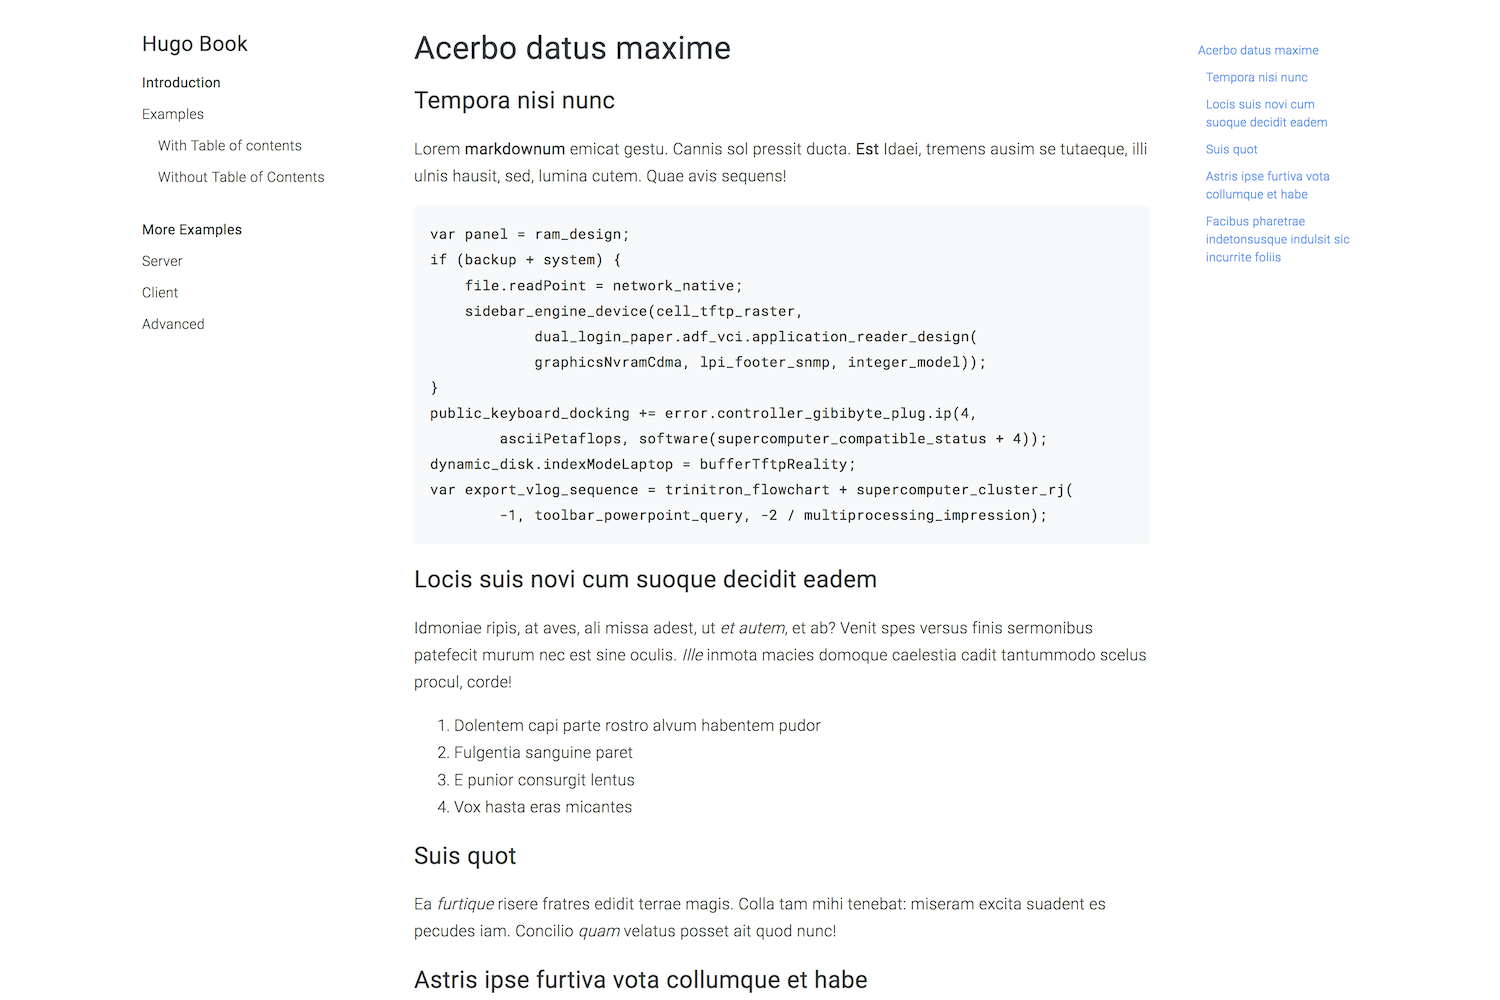
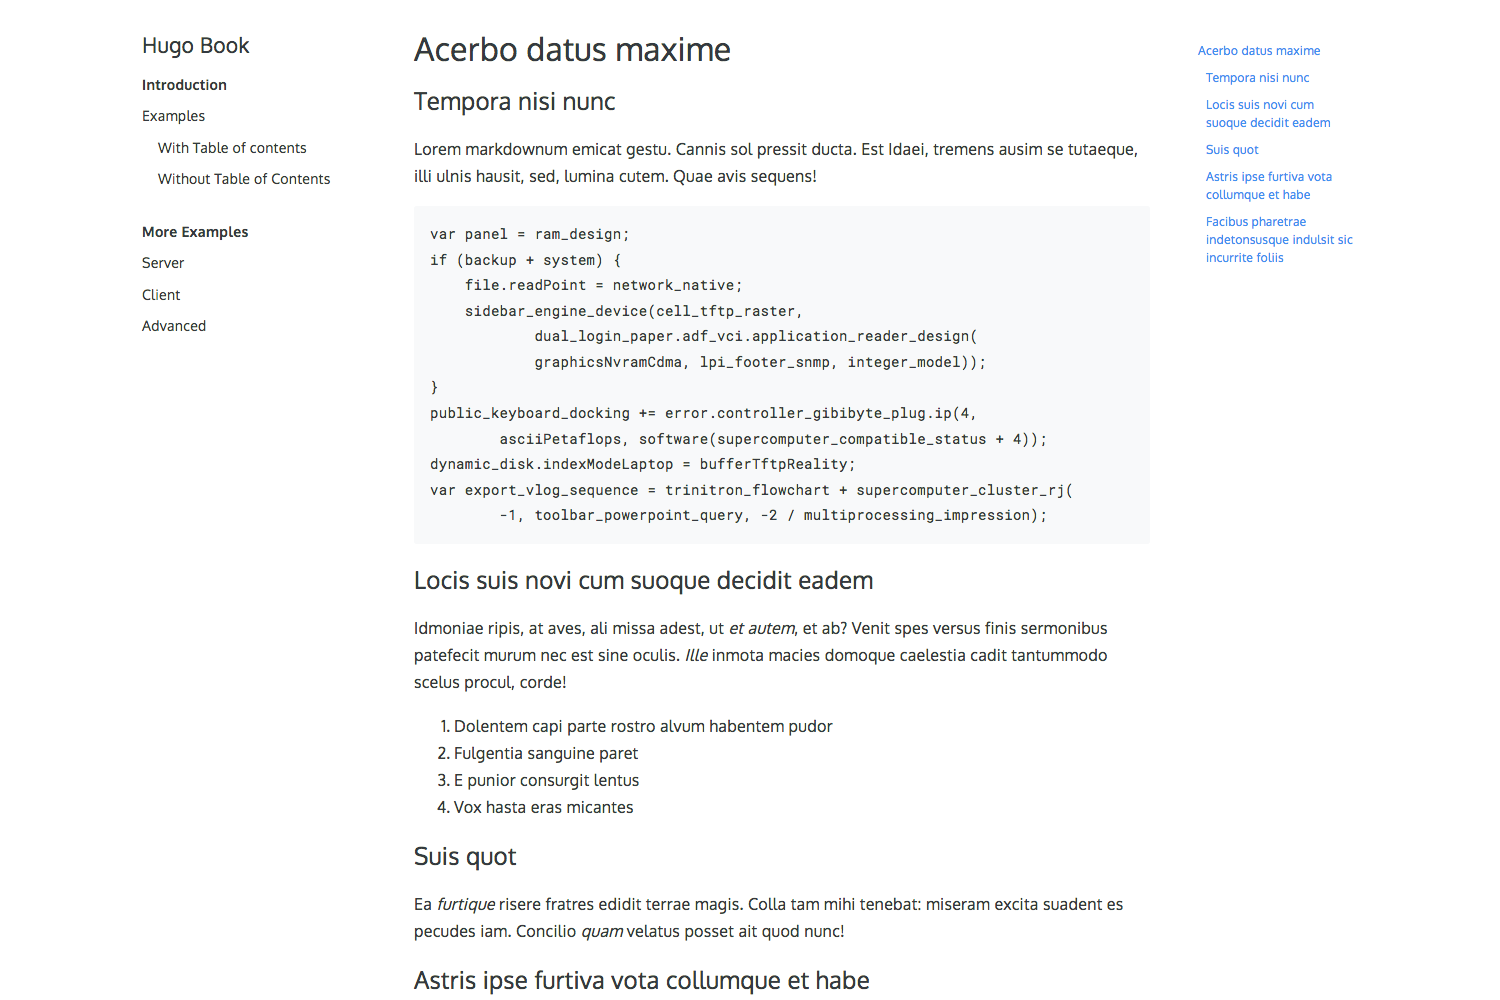
Use Oxygen font

diff --git a/static/normalize.min.css b/static/normalize.min.css
@@ -1,0 +1,2 @@
+/*! normalize.css v8.0.0 | MIT License | github.com/necolas/normalize.css */html{line-height:1.15;-webkit-text-size-adjust:100%}body{margin:0}h1{font-size:2em;margin:.67em 0}hr{box-sizing:content-box;height:0;overflow:visible}pre{font-family:monospace,monospace;font-size:1em}a{background-color:transparent}abbr[title]{border-bottom:none;text-decoration:underline;text-decoration:underline dotted}b,strong{font-weight:bolder}code,kbd,samp{font-family:monospace,monospace;font-size:1em}small{font-size:80%}sub,sup{font-size:75%;line-height:0;position:relative;vertical-align:baseline}sub{bottom:-.25em}sup{top:-.5em}img{border-style:none}button,input,optgroup,select,textarea{font-family:inherit;font-size:100%;line-height:1.15;margin:0}button,input{overflow:visible}button,select{text-transform:none}[type=button],[type=reset],[type=submit],button{-webkit-appearance:button}[type=button]::-moz-focus-inner,[type=reset]::-moz-focus-inner,[type=submit]::-moz-focus-inner,button::-moz-focus-inner{border-style:none;padding:0}[type=button]:-moz-focusring,[type=reset]:-moz-focusring,[type=submit]:-moz-focusring,button:-moz-focusring{outline:1px dotted ButtonText}fieldset{padding:.35em .75em .625em}legend{box-sizing:border-box;color:inherit;display:table;max-width:100%;padding:0;white-space:normal}progress{vertical-align:baseline}textarea{overflow:auto}[type=checkbox],[type=radio]{box-sizing:border-box;padding:0}[type=number]::-webkit-inner-spin-button,[type=number]::-webkit-outer-spin-button{height:auto}[type=search]{-webkit-appearance:textfield;outline-offset:-2px}[type=search]::-webkit-search-decoration{-webkit-appearance:none}::-webkit-file-upload-button{-webkit-appearance:button;font:inherit}details{display:block}summary{display:list-item}template{display:none}[hidden]{display:none}
+/*# sourceMappingURL=normalize.min.css.map */

diff --git a/layouts/partials/docs/html-head.html b/layouts/partials/docs/html-head.html
@@ -2,8 +2,8 @@
 <meta name="viewport" content="width=device-width, initial-scale=1.0">
 <title>{{- template "title" . }} | {{ .Site.Title -}}</title>
 
-<link href="https://fonts.googleapis.com/css?family=Roboto+Mono|Roboto:300,400,700" rel="stylesheet">
-<link rel="stylesheet" href="https://cdnjs.cloudflare.com/ajax/libs/normalize/8.0.0/normalize.min.css">
+<link href="https://fonts.googleapis.com/css?family=Oxygen+Mono|Oxygen:300,400,700" rel="stylesheet">
+<link rel="stylesheet" href="/normalize.min.css">
 
 {{ $styles := resources.Get "book.scss" | resources.ToCSS | resources.Minify | resources.Fingerprint }}
 <link rel="stylesheet" href="{{ $styles.RelPermalink }}">

diff --git a/assets/book.scss b/assets/book.scss
@@ -15,7 +15,7 @@ html, body {
 body {
   color: $body-font-color;
   background: $body-background;
-  font-family: 'Roboto', sans-serif;
+  font-family: 'Oxygen', sans-serif;
   font-weight: $body-font-weight;
 
   box-sizing: border-box;
@@ -100,7 +100,6 @@ main {
 
     .brand {
       margin-top: 0;
-      margin-bottom: $padding-16;
     }
 
     nav {

diff --git a/assets/_variables.scss b/assets/_variables.scss
@@ -26,7 +26,7 @@ $color-visited-link: #8440f1;
 
 $body-background: white;
 $body-font-color: $gray-800;
-$body-font-weight: 300;
+$body-font-weight: 400;
 $body-min-width: 25rem;
 
 $nav-background: $body-background; //$gray-100;
